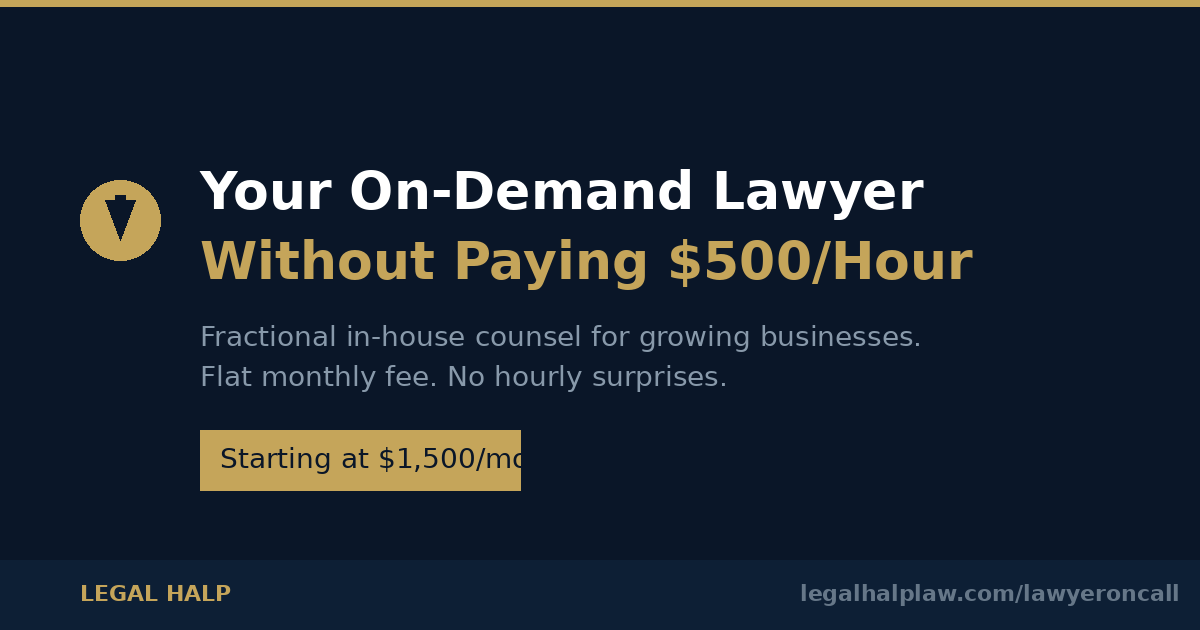
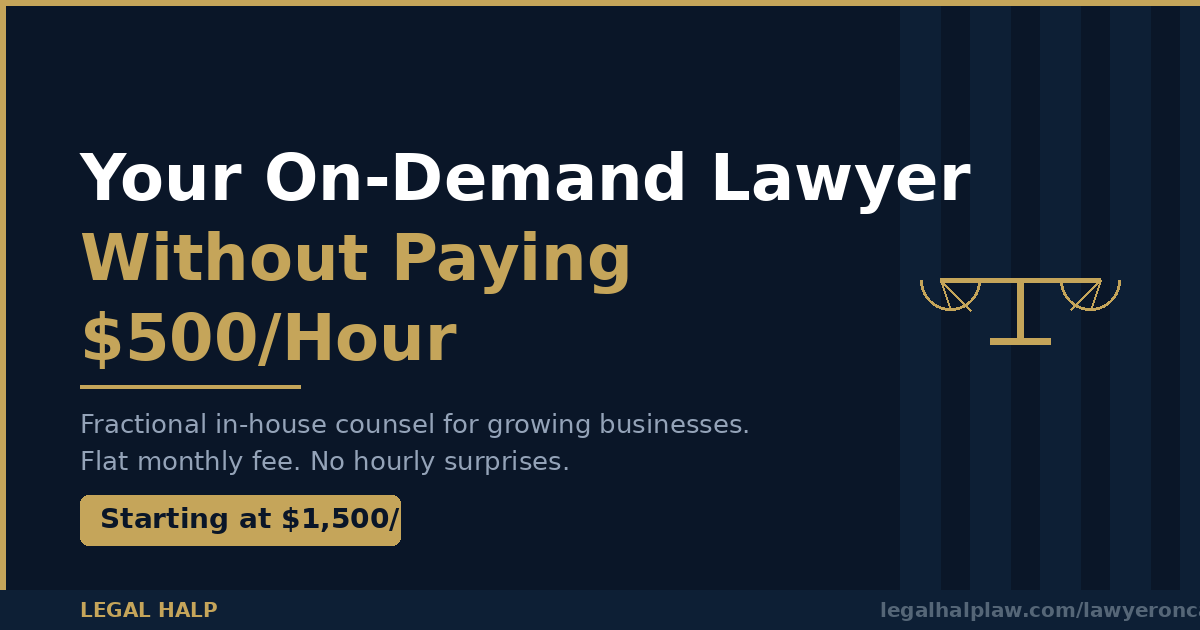
fix: remove autoplay, polish OG image for link previews
- Removed autoPlay + muted — users click to play with audio
- Improved OG image: cleaner layout, full price badge visible,
  scale of justice icon, navy/gold brand colors
- OG title: "Your On-Demand Lawyer Without Paying $500/Hour"

diff --git a/src/pages/Index.tsx b/src/pages/Index.tsx
@@ -365,9 +365,7 @@ const Index = () => {
                   className="w-full h-full object-cover"
                   controls
                   playsInline
-                  autoPlay
-                  muted
-                  preload="auto"
+                  preload="metadata"
                 >
                   <source src="https://github.com/cynthiaconcierge/JoshuaHalpernLegal/releases/download/videos/lawyer-on-call.mp4" type="video/mp4" />
                   Your browser does not support the video tag.
